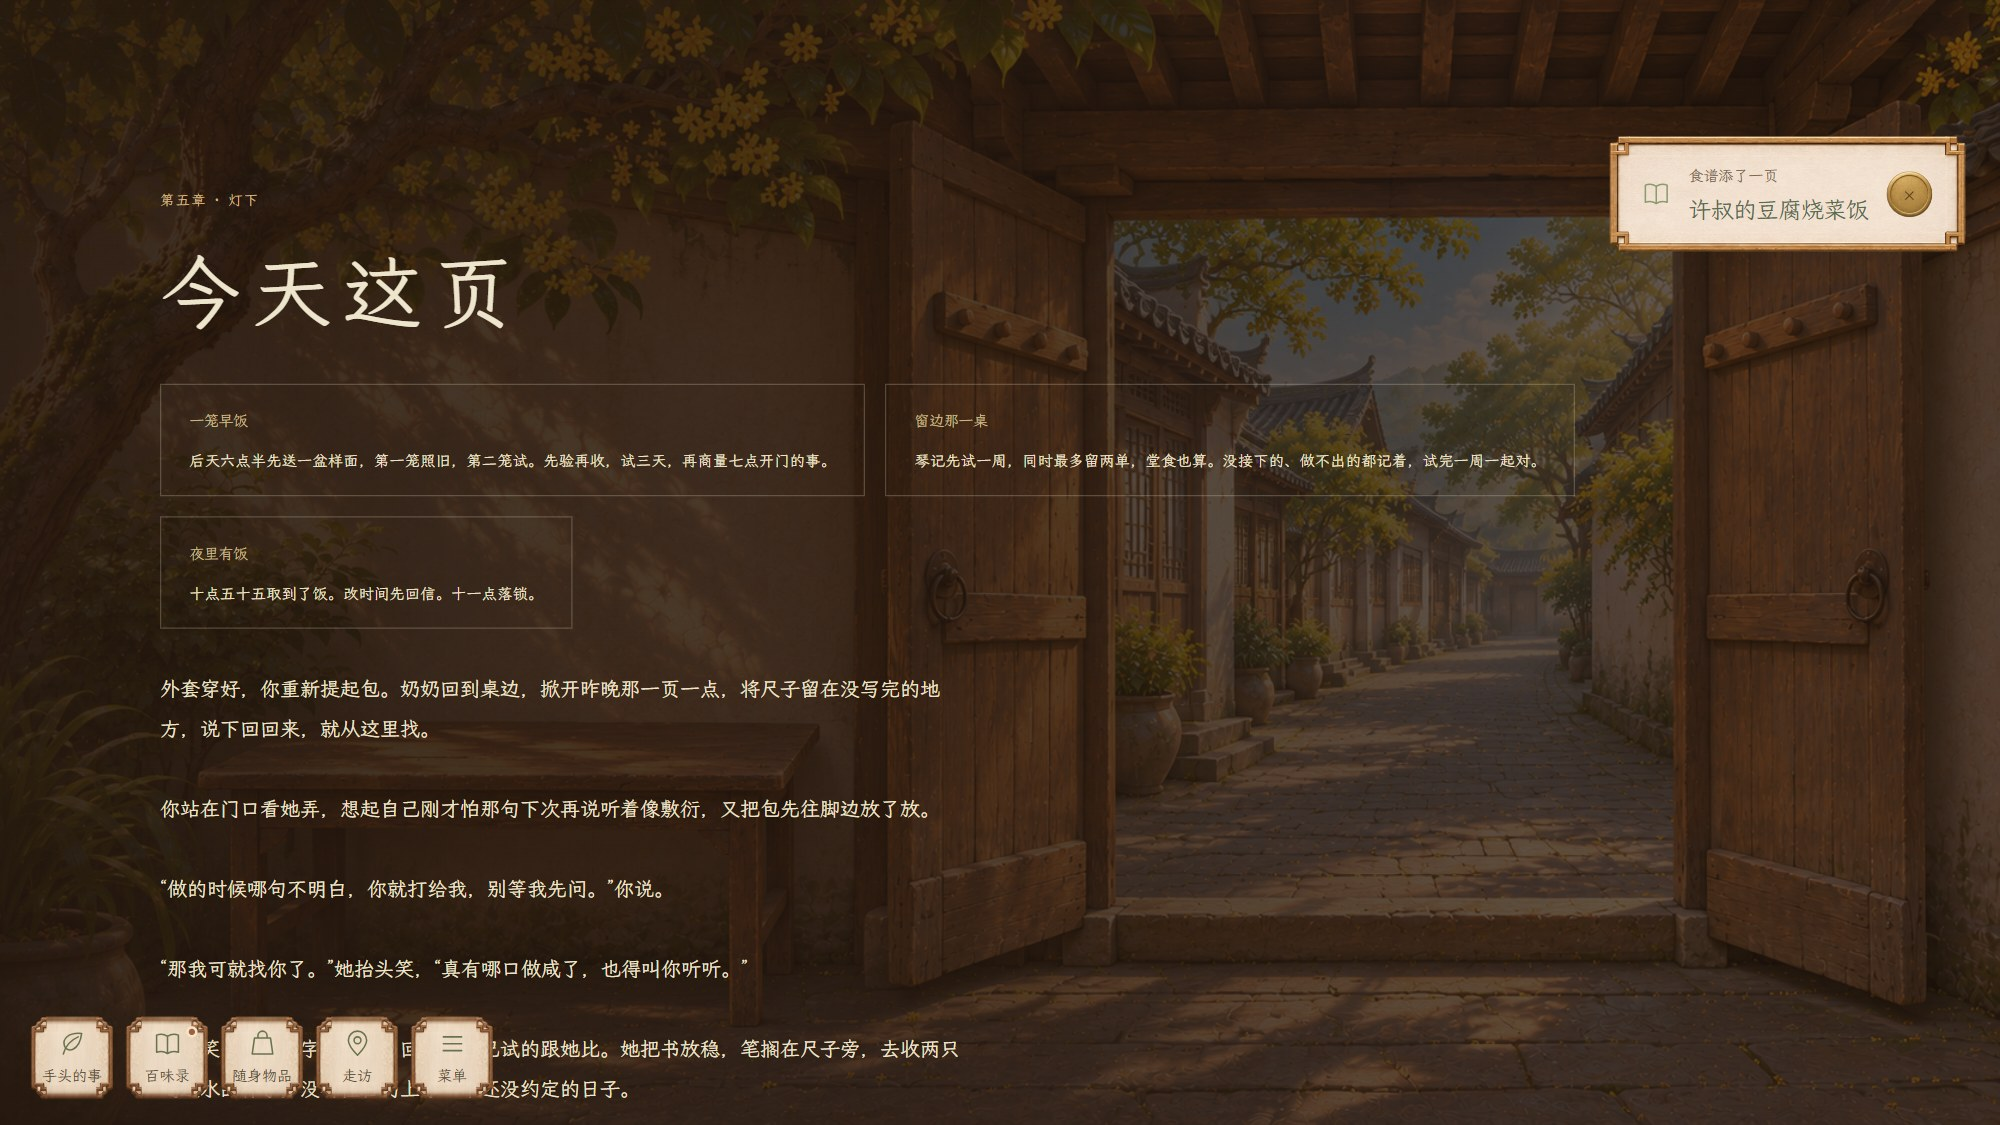
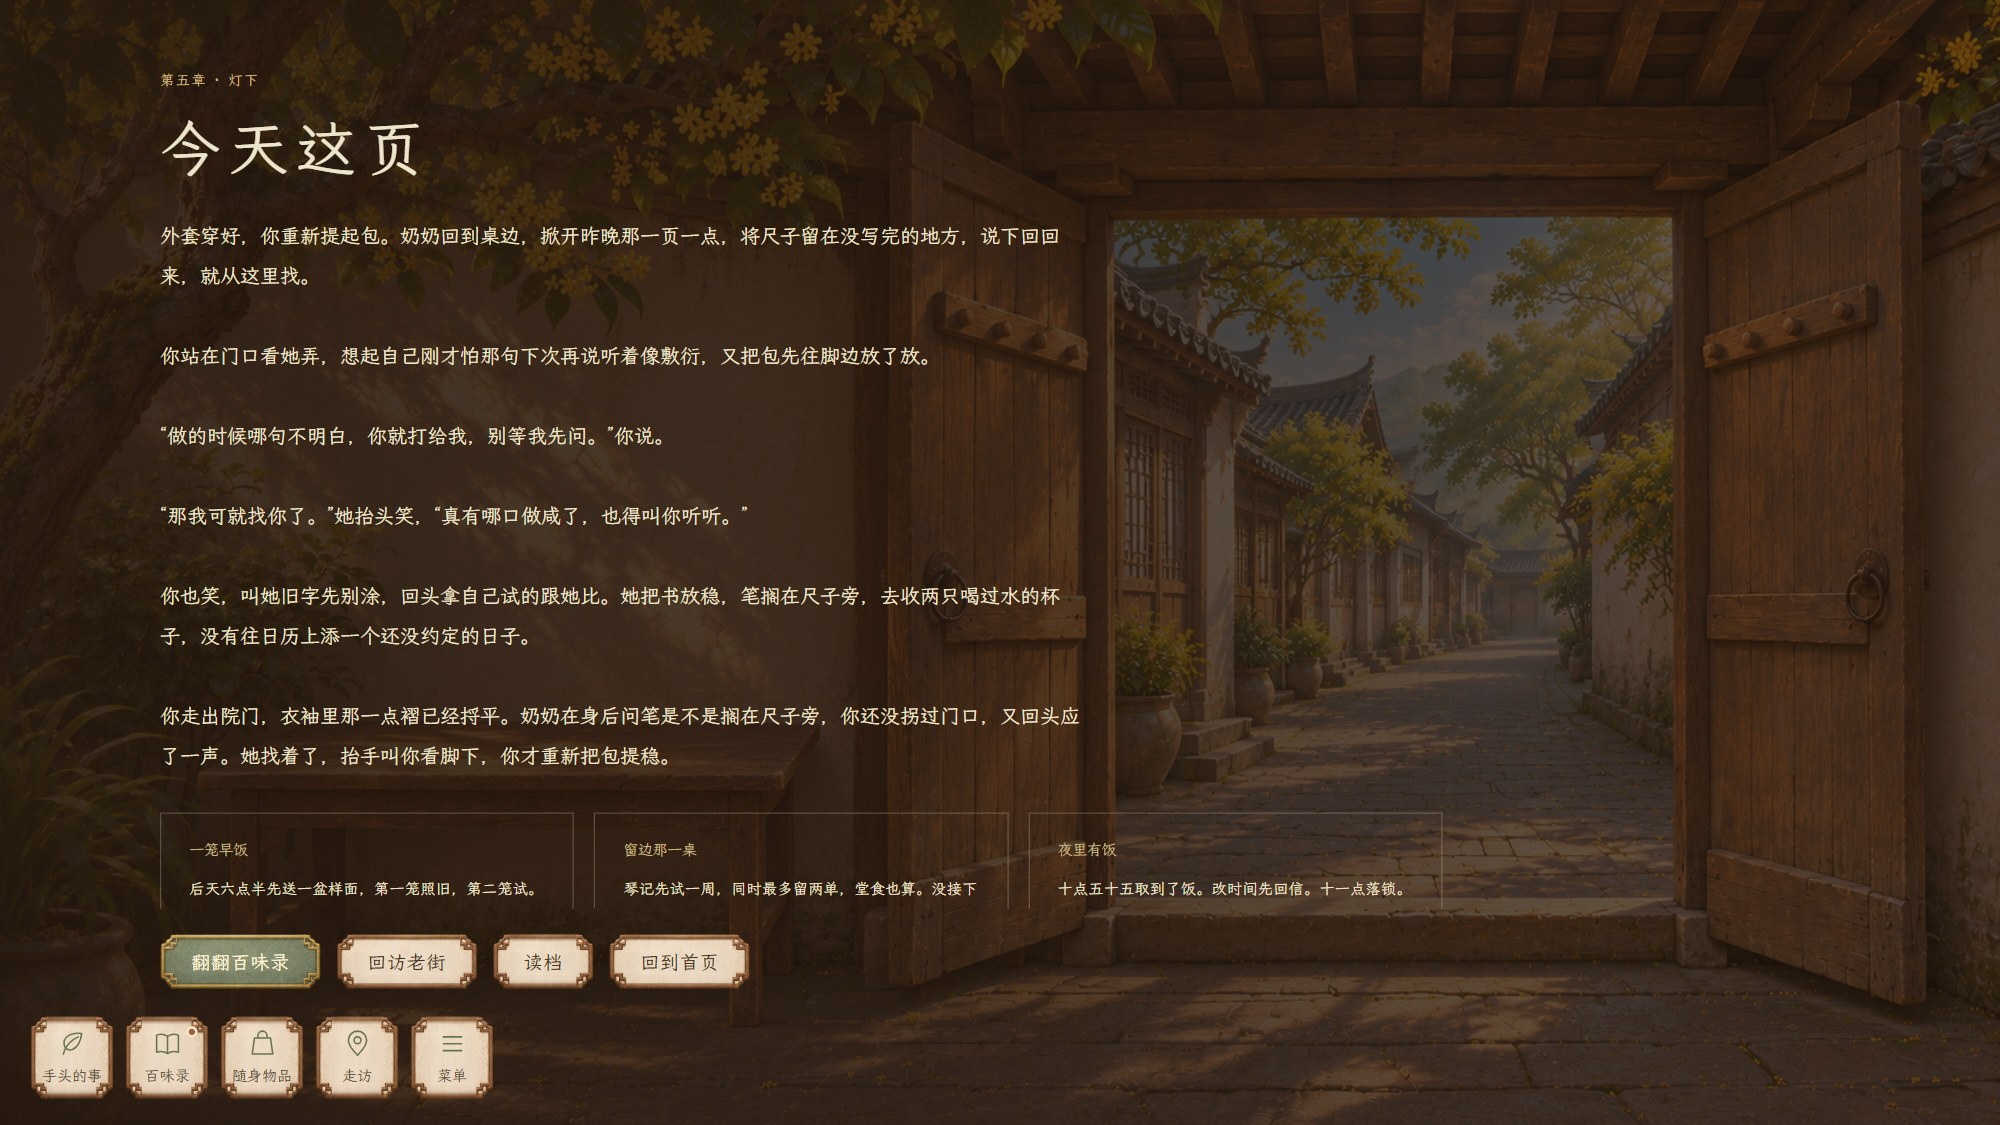
Keep ending text scrollable without covering controls

diff --git a/src/App.vue b/src/App.vue
@@ -231,6 +231,7 @@ watch([musicVolume,effectsVolume,muted,showingHome,()=>state.value.chapterId],()
 const region = ref<HTMLElement>(); let tween: gsap.core.Tween | undefined;
 const discovery = ref<{ title: string; text: string;  }>(); let discoveryTimer: ReturnType<typeof setTimeout> | undefined;
 watch([state, developer], ([next, testing], [previous, wasTesting]) => {
+  if(next.phase==='ending'){discovery.value=undefined;response.value=undefined;return;}
   if (testing || testing !== wasTesting) return;
   const recipe = content.recipes?.find(r => matches(next, r.condition) && !matches(previous, r.condition));
   const life = content.clues.find(c => c.category === 'life' && next.clues.includes(c.id) && !previous.clues.includes(c.id));
@@ -246,7 +247,7 @@ watch([state, developer], ([next, testing], [previous, wasTesting]) => {
   if (next.phase === 'title' || !notice) return;
   discovery.value = notice; clearTimeout(discoveryTimer);
 });
-const showDiscovery = computed(() => !!discovery.value && !node.value && !panel.value && !closeView.value && !showingHome.value && !response.value && (!guideVisible.value || guideMinimized.value));
+const showDiscovery = computed(() => state.value.phase==='playing' && !!discovery.value && !node.value && !panel.value && !closeView.value && !showingHome.value && !response.value && (!guideVisible.value || guideMinimized.value));
 watch([showDiscovery, discovery], () => { clearTimeout(discoveryTimer); if (showDiscovery.value) discoveryTimer = setTimeout(() => { discovery.value = undefined; }, 7000); });
 watch([showingHome, () => state.value.chapterId, () => state.value.sceneId], async () => {
   await nextTick(); tween?.kill();
@@ -272,7 +273,14 @@ onBeforeUnmount(() => { tween?.kill(); clearTimeout(discoveryTimer); soundscape.
           <Transition name="hud-reveal"><aside v-if="objectivesOpen&&!guideChrome" class="objectives-panel"><WoodFrame kind="ui-toast"/><h2>{{returning?'这次回访':'手头的事'}}</h2><div class="text-scroll"><p>{{returning?scene.description:chapter.objective}}</p><ol v-if="chapter.beats&&!returning" class="objective-list"><li v-for="beat in chapter.beats" :key="beat.label" :class="{done:matches(state,beat.condition)}"><Icon :name="matches(state,beat.condition)?'check':'leaf'"/>{{beat.label}}</li></ol></div></aside></Transition>
 
         </div>
-        <section v-else class="ending-screen" :style="{ backgroundImage: `linear-gradient(90deg, #24170fe8, #24170fb0), url('${content.assets[ending.asset ?? 'title-homecoming']!.url}')` }"><p class="eyebrow">第五章 · {{ chapter.title }}</p><h1>{{ ending.title }}</h1><div class="outcomes"><article v-for="record in epilogueRecords(state)" :key="record.id"><small>{{ record.title }}</small><p>{{ record.text }}</p></article></div><p class="ending-copy">{{ ending.text }}</p><div class="button-row"><UiButton tone="jade" @click="openPanel('journal')">翻翻百味录</UiButton><UiButton v-if="unlocked('revisit')" @click="openPanel('revisit')">回访老街</UiButton><UiButton @click="openPanel('saves')">读档</UiButton><UiButton @click="viewHome = true">回到首页</UiButton></div></section>
+        <section v-else class="ending-screen" :style="{ backgroundImage: `linear-gradient(90deg, #24170fe8, #24170fb0), url('${content.assets[ending.asset ?? 'title-homecoming']!.url}')` }">
+          <p class="eyebrow">第五章 · {{ chapter.title }}</p><h1>{{ ending.title }}</h1>
+          <div class="ending-reading text-scroll" tabindex="0" aria-label="结尾正文与三家店记">
+            <p class="ending-copy">{{ ending.text }}</p>
+            <div class="outcomes"><article v-for="record in epilogueRecords(state)" :key="record.id"><small>{{ record.title }}</small><p>{{ record.text }}</p></article></div>
+          </div>
+          <div class="button-row"><UiButton tone="jade" @click="openPanel('journal')">翻翻百味录</UiButton><UiButton v-if="unlocked('revisit')" @click="openPanel('revisit')">回访老街</UiButton><UiButton @click="openPanel('saves')">读档</UiButton><UiButton @click="viewHome = true">回到首页</UiButton></div>
+        </section>
       </template>
     </main>
     <GameDock v-if="!showingHome" :tools="dockTools" :blocked="!!panel||!!node" @activate="activateDock"/>

diff --git a/src/styles/immersive.css b/src/styles/immersive.css
@@ -45,7 +45,15 @@ html,body,#app { min-height:100%; }
 .home-menu { width:230px; display:grid; gap:12px; }.home-menu > .ui-button { width:230px; min-height:49px; font-size:17px; animation:home-rise .8s .95s both; }.home-menu > .ui-button:nth-child(2) { animation-delay:1.08s; }.home-menu .ui-button__content { justify-content:space-between; width:100%; gap:25px; }
 .home-secondary { display:flex; align-items:center; gap:25px; padding:5px 0 0; animation:home-rise .9s 1.25s both; }.immersive .home-secondary .ui-button { color:#e6d2aa; font-size:14px; padding:5px 2px; }.home-secondary .ui-button:hover { color:#fff0c7; }
 .home-sprig { position:absolute; left:3.5%; bottom:3%; width:132px; height:100px; transform:rotate(-13deg); opacity:.68; animation:home-sprig 1.4s 1.1s both; }.home-colophon { position:absolute; right:30px; bottom:23px; color:#e9dbbd; font:11px var(--font-story); letter-spacing:.2em; text-shadow:0 1px 7px #3a291e; animation:home-rise 1s 1.2s both; }.home-grain { position:absolute; inset:0; z-index:8; opacity:.035; background:repeating-linear-gradient(0deg,transparent,transparent 2px,#d4b678 3px); pointer-events:none; }
-.immersive .ending-screen { position:absolute; inset:0; padding:150px 8vw 60px; overflow-y:auto; background-position:center; }.immersive .ending-screen .eyebrow { color:#cfb782; }
+.immersive .ending-screen { position:absolute; inset:0; min-height:0; display:flex; flex-direction:column; padding:clamp(24px,6dvh,70px) 8vw 108px; overflow:hidden; background-position:center; }
+.immersive .ending-screen .eyebrow { flex-shrink:0; margin:0; color:#cfb782; }
+.immersive .ending-screen h1 { flex-shrink:0; font-size:clamp(30px,5.3dvh,56px); margin:12px 0 22px; }
+.ending-reading { flex:1; min-height:0; max-width:1050px; overflow-y:auto; overscroll-behavior:contain; scrollbar-gutter:stable; padding-right:14px; }
+.ending-reading .ending-copy { max-width:750px; margin:0; }
+.ending-reading .outcomes { margin:30px 0 12px; }
+.ending-reading .outcomes article { flex:1; min-width:220px; }
+.immersive .ending-screen .button-row { flex-shrink:0; margin-top:20px; }
+@media(max-width:720px){.immersive .ending-screen{padding:24px 24px 94px}.immersive .ending-screen h1{font-size:32px;letter-spacing:.08em;margin:10px 0 18px}.ending-reading{padding-right:8px}.ending-reading .ending-copy{font-size:17px;line-height:2}.ending-reading .outcomes article{min-width:0;flex-basis:100%}.immersive .ending-screen .button-row{display:grid;grid-template-columns:1fr 1fr;gap:9px;margin-top:15px}.immersive .ending-screen .button-row .ui-button{min-width:0;padding:10px 8px;font-size:12px}}
 @keyframes home-light { from { opacity:0; transform:scale(1.035); filter:brightness(.8); } to { opacity:1; transform:scale(1); filter:brightness(1); } }
 @keyframes home-rise { from { opacity:0; transform:translateY(12px); } to { opacity:1; transform:translateY(0); } }
 @keyframes home-ink { from { opacity:0; transform:translateY(8px); filter:blur(6px); } to { opacity:1; transform:translateY(0); filter:blur(0); } }

diff --git a/AGENTS.md b/AGENTS.md
@@ -2,6 +2,8 @@
 
 - 2026-11-10 最新后续：第四、五章按前三章生活对白、主角心理和祖孙柔软口气精修；保留三条夜饭收束、显式三结局及原动作键约束的补问。人间百味 11 个片段及分支版本改为每个纸面一篇完整情感小事，按真实发现顺序阅读，桌面两篇／窄屏一篇，正文独立滚动；公开协议仍读店签，不将私话或未发生之事写入片段。移除场景长按白字与放置提示，真实拖动仍保留；木框内部切片重叠修正 125% 显示缩放接缝，不改原素材、标题字体或桂花。三套原创合成轻配乐、四类音效由表现层与音频适配接入，音乐／音效／静音分别保存，隐藏页或首页暂停，同主题换房不重启；对白正文与逐字显字无提示音。已完成物件再打开不重复上次操作回应。v6／状态 v3 不变，两个用户原稿保持字节不变。用户要求本轮完成后新建分支推送，不能推 main。详见 docs/planning/第四五章与人间百味精修及声音接入.md。
 
+- 同轮页面复查：结尾页先呈现人物正文，再列店记；只有正文与店记滚动，标题、结尾控件和左下入口固定并留间距，进入结局清除旧发现提示。窄屏结尾滚动后不许被底部入口遮住，见 docs/engineering/第四五章与声音验收.md。
+
 - 2026-11-10 最新反馈：首章不能卡关、反复回跳或靠开关面板推进；第三章按前两章的口语、主角心理、实物交互和状态一致性标准继续精修。首章可选话题结束直接接委托，未完问题／拿钥匙／说明各自中断续接；漏问话题在当章与回访仍可补，结束回场景，不再绕回发钥匙。书签任务由当前内容与进度确定，从场景旧书和左下入口均可完成，已完成不重复开放。内容检查拒绝所有自循环和无进展的对白回跳，正常剧情标记只积累。第三章增加独立补问入口，排单有效后一次下锅并出餐，三个结尾须说完并吃过面才离店；用过的筷子离开原架。现为首章 25／琴记 33 节点，旧 ID、奖励和存档字段保留。合入 ea2b15c 第四、五章后沿用 v6／状态 v3；终章回看只许原动作键约束的一次性话题，未读完续接，不恢复无限菜单循环。见 docs/planning/首章流程与琴记精修.md。
 
 - 2026-11-09 最新反馈优先：教学取消“试一下”等代理操作和重复确认；整框点按／空格／回车补全或继续，末句不自动选回答。只留左上地点时间，删除游戏品牌框、章节轨迹、物件提示模式与右下重复地点；通路统一到左右边缘中央，常用游戏入口统一为左下方木制正方形按钮，菜单只放图鉴与控制。物件直接点实物展开／翻面／移动；旧书直接进入纸本，翻页不锁操作。长文只在正文区滚动，实物、书脊、边框和控件固定。信纸是完整家信，手机是求职草稿或对应业务屏幕；物件文字以小满的回忆、心理与人物行动服务叙事，删无意义尾句和玩法说明。陈家凳子与保温袋实际转移后移除原交互，单一结果不再二次确认。前两章阅读稿与源码同步；新增 home-resume 和普通线轴摆放标记用于中断一致性，旧 ID、分支及存档兼容保留。详见 docs/planning/自然交互与前两章精修.md，新叙事仍为 Demo。

diff --git a/docs/engineering/第四五章与声音验收.md b/docs/engineering/第四五章与声音验收.md
@@ -31,6 +31,7 @@
 - 第五章：讲自己中途关闭后接回同一话题，已讲完话题不重开循环；陈家、琴记回看按当前实际结果显示。
 - 简历：打开仍是草稿，不是消息气泡；未点保存前不修改日期。点保存后仅改原标记，未发出、未选结局；重开不重演旧操作回应。仅正文滚动时手机与画框固定。
 - 三个结局：早餐路线使用普通动画，通话路线使用窄屏，其余使用减少动画；明确选择后读完夜话，再进入次晨，读完次晨才能收束。页面无横向溢出。
+- 截图复查补充：初次窄屏结尾的长文会滚到左下入口后面，并叠着之前的食谱发现提示。已改为结尾正文和店记独立滚动，标题、结尾控件和左下入口固定并留出间距；先呈现人物的结尾，再列店记。进入结局清除旧发现提示，实测上下滚动后外框及控件不动，结尾仍能打开／关闭百味录。
 - 木框：三个 DPR 均截取左下入口和设置面板；旧接缝通过仅在隔离页面注入原切片尺寸复现，实际样式保留修正后的边缘覆盖。
 - 声音：监听实际 `Audio` 播放、解码、音量与时间。真实“继续故事”手势后播放；翻纸、杯碟和通路音可播放。设置静音、音量保存后刷新仍有效，剧情档不变。同章切房只有一个连续播放器；回家淡化，隐藏／恢复暂停续播，无媒体错误。
 

diff --git a/docs/art/previews/night-epilogue-v10/README.md b/docs/art/previews/night-epilogue-v10/README.md
@@ -11,7 +11,7 @@
 | 夜饭三条收束 | [取餐](night-pickup.jpg)、[取消](night-cancelled.jpg)、[未到](night-missed.jpg) |
 | 终章分支回看 | [陈家](epilogue-chen.jpg)、[琴记](epilogue-qin.jpg) |
 | 可选简历草稿 | [未改](epilogue-phone-before.jpg)、[已保存未发](epilogue-phone-after.jpg) |
-| 三个显式结局 | [早餐](ending-breakfast.jpg)、[通话窄屏](ending-call.jpg)、[留书](ending-book.jpg)；另附选择页与次晨页 |
+| 三个显式结局 | [早餐](ending-breakfast.jpg)、[通话窄屏](ending-call.jpg)、[留书](ending-book.jpg)；另附选择页、次晨页及正文滚动后的画面 |
 | 音乐／音效／静音 | [设置](audio-settings.jpg) |
 
 旧接缝图仅在隔离页面注入原 CSS 以作对照，没有修改游戏源文件。图片没有拼接或重绘。具体覆盖、结构审计、声音哈希及页面异常见本目录 JSON 报告与[验收说明](../../../engineering/第四五章与声音验收.md)。

diff --git a/docs/planning/第四五章与人间百味精修及声音接入.md b/docs/planning/第四五章与人间百味精修及声音接入.md
@@ -21,6 +21,8 @@
 
 简历仍是手机里的本地草稿，个人简介半句、结束日期“至今”。玩家愿意才改日期，不要求发送、补完简历或据此选结局；再打开显示已保存、未发送。已完成的物件操作不重复附上上次回应，避免再次看到“你删掉……”却并没有再次操作。
 
+结尾页同样只让正文和店记滚动，固定标题、结尾控件及左下入口；人物场面先于事实店记呈现。进入结局不继续弹之前的食谱发现提示，窄屏长文也不会被底部入口挡住。
+
 ## 每一面都是一个片段
 
 店签承担公开协议和日期；人间百味留下小满与人的具体相处。衣架、那只偏了馅的包子、父女都想看的三格、田姨肩上的包、没有回来的消息，分别有自己的场面和情绪，不统一写成材质、童年、感悟三段。
